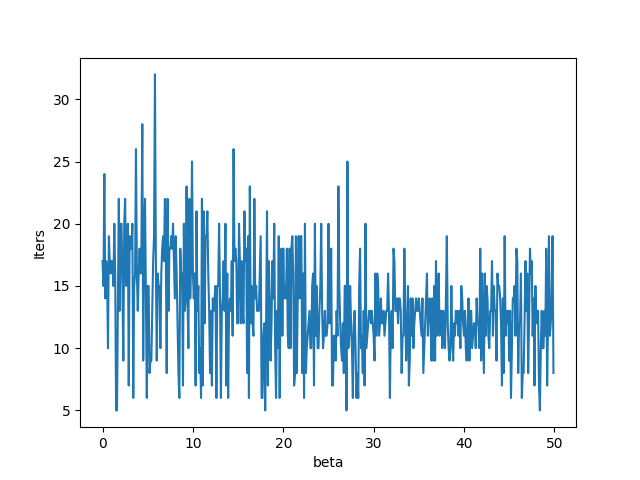
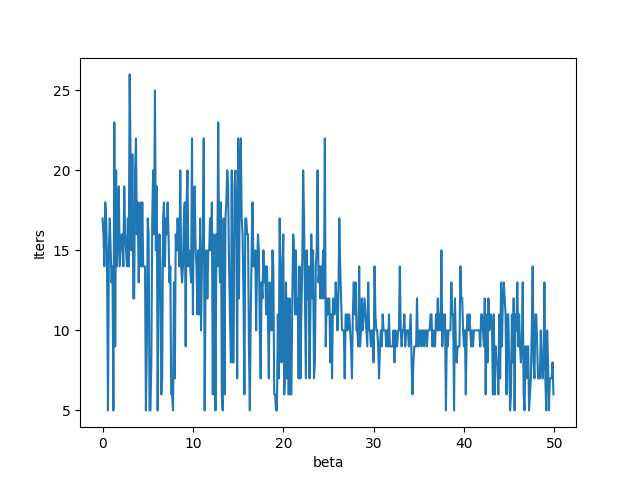
qib bug fixed

diff --git a/quantum_qib.py b/quantum_qib.py
@@ -155,9 +155,11 @@ def initialize_sigma_T_X(args):
     #                          for _ in range(args.dim_X)]).to(device)
     sigma_T_X = []
     for i in range(args.dim_X):
-        rand_vec = torch.rand(args.dim_T).cdouble() * 0.25
+        rand_vec = torch.rand(args.dim_T)
+        rand_vec[i] = 0
+        rand_vec = rand_vec / rand_vec.sum() * 0.25
         rand_vec[i] = 0.75
-        sigma_T_X.append(torch.diag(rand_vec))
+        sigma_T_X.append(torch.diag(rand_vec).cdouble())
     return torch.stack(sigma_T_X).to(device)
 
 
